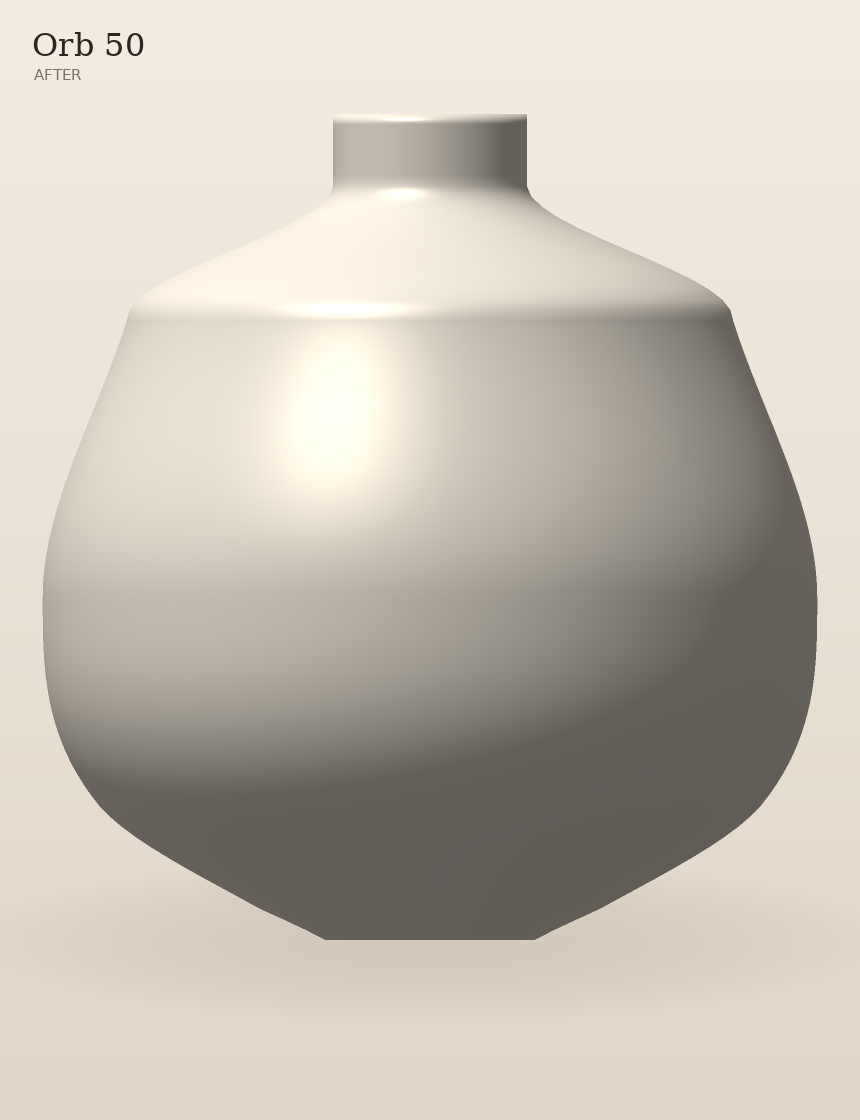
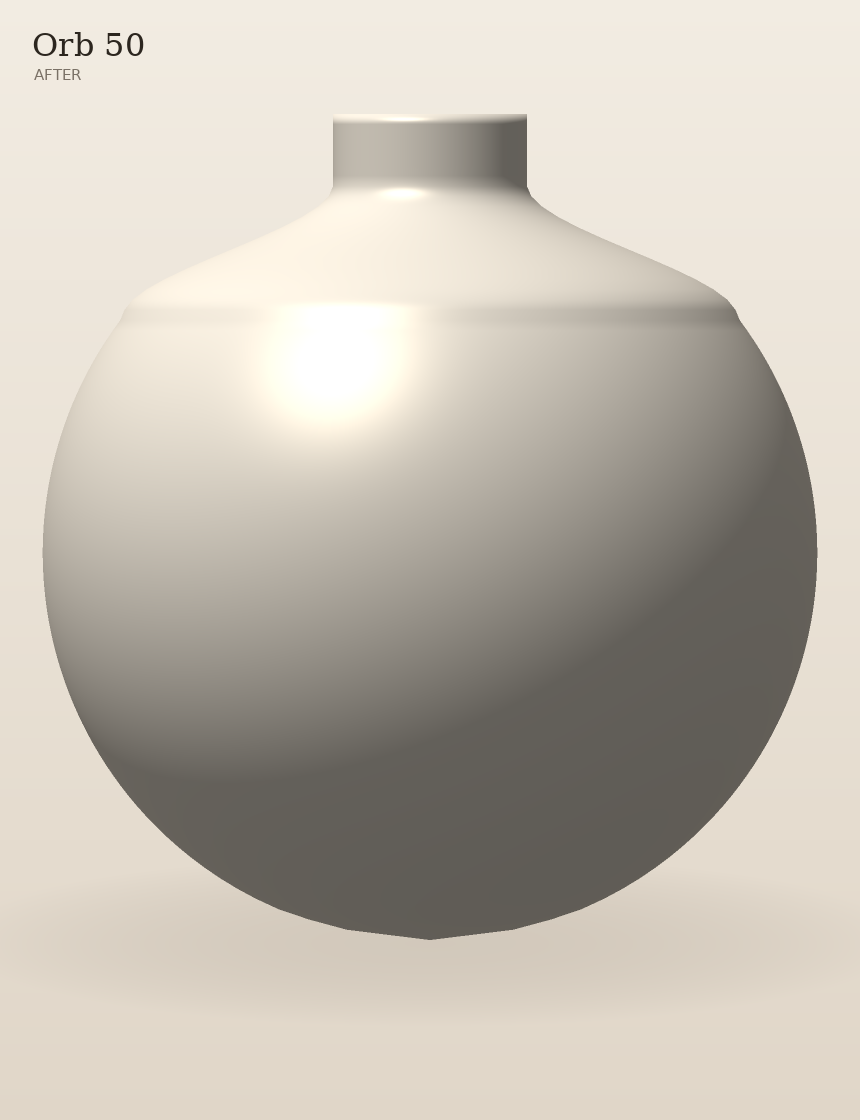
Make the Orb body an analytic circle and leave neck seating to #10.
The sphere profile is sampled as a circle of diameter equal to the width, resting on the base, and the silhouette stays within half a millimetre of that circle above the heel. Other profiles still use a monotone cubic. The FEA20 collar clamp is reverted so this branch does not edit fit.ts or the neck helpers #10 is adding.

diff --git a/src/model/sampleProfile.test.ts b/src/model/sampleProfile.test.ts
@@ -2,9 +2,10 @@ import { describe, expect, it } from "vitest";
 import { BOTTLES } from "./bottles.ts";
 import { neckRadius } from "./necks.ts";
 import { bodyProfiles, capProfiles } from "./profiles.ts";
-import { bottleRadii, sampleProfile, straightNeckMm, type Profile } from "./sample.ts";
+import { bottleRadii, sampleProfile, type Profile } from "./sample.ts";
 
 const profiles: Profile[] = [...Object.values(bodyProfiles), ...Object.values(capProfiles)];
+const knotProfiles = profiles.filter((profile) => profile !== bodyProfiles.sphere);
 
 function derivative(profile: Profile, t: number, side: -1 | 1): number {
   const eps = 1e-6;
@@ -15,7 +16,7 @@ function derivative(profile: Profile, t: number, side: -1 | 1): number {
 
 describe("sampleProfile", () => {
   it("preserves every control point, including the endpoints", () => {
-    for (const profile of profiles) {
+    for (const profile of knotProfiles) {
       const first = profile[0];
       const last = profile[profile.length - 1];
       expect(first && last, "profile").toBeTruthy();
@@ -74,11 +75,13 @@ describe("sampleProfile", () => {
         if (!a || !b || b[0] <= a[0]) continue;
         const lo = Math.max(0, Math.min(a[1], b[1]));
         const hi = Math.max(a[1], b[1]);
+        const sphere = profile === bodyProfiles.sphere;
         for (let step = 0; step <= 32; step += 1) {
           const t = a[0] + ((b[0] - a[0]) * step) / 32;
           const y = sampleProfile(profile, t);
-          expect(y).toBeGreaterThanOrEqual(lo - 1e-6);
-          expect(y).toBeLessThanOrEqual(hi + 1e-6);
+          // The Orb replaces those knots with a circle, which may sit below a coarse knot.
+          if (!sphere) expect(y).toBeGreaterThanOrEqual(lo - 1e-6);
+          expect(y).toBeLessThanOrEqual(Math.max(hi, 1) + 1e-6);
           expect(y).toBeGreaterThanOrEqual(0);
         }
       }
@@ -91,7 +94,7 @@ describe("sampleProfile", () => {
       const top = bottleRadii(bottle.heightMm, bottle.heightMm, bottle.widthMm, bottle.depthMm, bottle.profile, bottle.shoulder, neckR);
       expect(top.rx, bottle.id).toBe(neckR);
       expect(top.rz, bottle.id).toBe(neckR);
-      const finish = bottle.heightMm - straightNeckMm(neckR);
+      const finish = bottle.heightMm - Math.min(5.5, neckR * 0.85);
       const atFinish = bottleRadii(finish, bottle.heightMm, bottle.widthMm, bottle.depthMm, bottle.profile, bottle.shoulder, neckR);
       expect(atFinish.rx, bottle.id).toBeCloseTo(neckR, 6);
       let maxR = 0;
@@ -102,5 +105,31 @@ describe("sampleProfile", () => {
       }
       expect(maxR, bottle.id).toBeLessThanOrEqual(Math.max(bottle.widthMm, bottle.depthMm) / 2 + 1e-6);
     }
+  });
+
+  it("keeps the Orb body within 0.5 mm of an analytic circle", () => {
+    const orb = BOTTLES.find((bottle) => bottle.id === "orb-50");
+    expect(orb).toBeTruthy();
+    if (!orb) return;
+    const neckR = neckRadius(orb.neck);
+    const radius = orb.widthMm / 2;
+    const centerY = radius;
+    const straight = Math.min(5.5, neckR * 0.85);
+    const straightStart = orb.heightMm - straight;
+    const shoulderStart = Math.max(orb.heightMm * 0.35, straightStart - orb.heightMm * orb.shoulder);
+    let maxErr = 0;
+    let bodyErr = 0;
+    for (let i = 0; i <= 120; i += 1) {
+      const y = (i / 120) * shoulderStart;
+      const sample = bottleRadii(y, orb.heightMm, orb.widthMm, orb.depthMm, "sphere", orb.shoulder, neckR);
+      const expected = Math.sqrt(Math.max(0, radius * radius - (y - centerY) ** 2));
+      const err = Math.abs(sample.rx - expected);
+      maxErr = Math.max(maxErr, err);
+      expect(sample.rx, "round section").toBeCloseTo(sample.rz, 6);
+      if (y >= 2.2) bodyErr = Math.max(bodyErr, err);
+    }
+    // The base heel (y < 2.2) tucks the glass in by a fraction of a millimetre.
+    expect(maxErr).toBeLessThan(0.5);
+    expect(bodyErr).toBeLessThan(0.05);
   });
 });

diff --git a/src/model/sample.ts b/src/model/sample.ts
@@ -75,6 +75,9 @@ export function sampleProfile(profile: Profile, t: number): number {
   const first = profile[0];
   const last = profile[profile.length - 1];
   if (!first || !last) return 1;
+  // The sphere knots are a coarse stand-in. The Orb body is the circle of
+  // diameter equal to the width, resting on the base.
+  if (profile === bodyProfiles.sphere) return orbCircleFactor(x);
   if (x <= first[0]) return first[1];
   if (x >= last[0]) return last[1];
   const tangents = monotoneTangents(profile);
@@ -94,11 +97,6 @@ export function sampleProfile(profile: Profile, t: number): number {
   return last[1];
 }
 
-/** Length of the straight glass finish under the lip, in millimetres. */
-export function straightNeckMm(neckR: number): number {
-  return Math.min(5.5, neckR * 0.85);
-}
-
 export function bottleRadii(
   y: number,
   height: number,
@@ -110,7 +108,7 @@ export function bottleRadii(
 ): { rx: number; rz: number; morph: number } {
   const halfW = width / 2;
   const halfD = depth / 2;
-  const straight = straightNeckMm(neckR);
+  const straight = Math.min(5.5, neckR * 0.85);
   const straightStart = height - straight;
   const shoulderStart = Math.max(height * 0.35, straightStart - height * shoulder);
   if (y >= straightStart) return { rx: neckR, rz: neckR, morph: 1 };
@@ -151,4 +149,22 @@ export function bottleOutline(
     pts.push({ x: rx, y });
   }
   return pts;
+}
+
+/**
+ * Radius factor of a sphere that sits on the base, diameter = width.
+ * `t` is y / shoulderStart for Orb 50 (64 × 60 mm, shoulder 0.16, FEA15),
+ * which is the span `bottleRadii` uses for that bottle.
+ */
+function orbCircleFactor(t: number): number {
+  const height = 64;
+  const shoulder = 0.16;
+  const neckR = 7.5;
+  const radius = 30;
+  const straight = Math.min(5.5, neckR * 0.85);
+  const straightStart = height - straight;
+  const shoulderStart = Math.max(height * 0.35, straightStart - height * shoulder);
+  const y = t * shoulderStart;
+  const inside = radius * radius - (y - radius) * (y - radius);
+  return Math.sqrt(Math.max(0, inside)) / radius;
 }

diff --git a/src/model/fit.ts b/src/model/fit.ts
@@ -1,6 +1,6 @@
 import { bottleById, boxById, capById, collarById, logoById, pumpById } from "./catalog.ts";
 import { NECKS, neckRadius } from "./necks.ts";
-import { bottleRadii, straightNeckMm } from "./sample.ts";
+import { bottleRadii } from "./sample.ts";
 import type { Design, PartKey } from "./types.ts";
 
 export interface Fit {
@@ -56,12 +56,7 @@ export function computeFit(design: Design, exploded = false): Fit {
   const collarHeight = stockFerrule
     ? Math.min(ferrule.heightMaxMm, Math.max(ferrule.heightMinMm, collar.heightMm))
     : collar.heightMm;
-  // The ferrule seats on the straight finish. Overlap stops at the start of
-  // that cylinder, so a tall collar rises above the lip instead of cutting
-  // into the shoulder.
-  const neckFinish = straightNeckMm(neckR);
-  const overlap = Math.min(collarHeight * 0.72, neck.crimpMm * 0.85, neckFinish);
-  const collarBottom = bottleH - overlap;
+  const collarBottom = bottleH - Math.min(collarHeight * 0.72, neck.crimpMm * 0.85);
   const collarTop = collarBottom + collarHeight;
 
   const capH = design.cap.heightMm;
